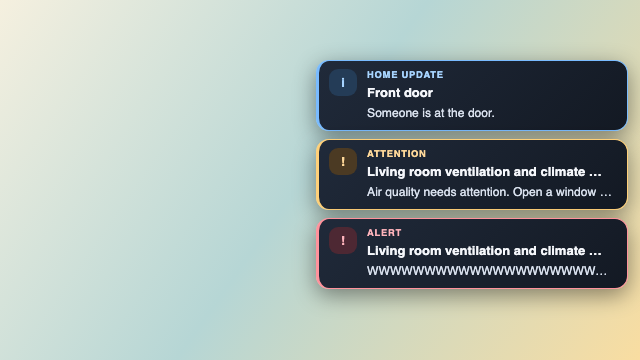
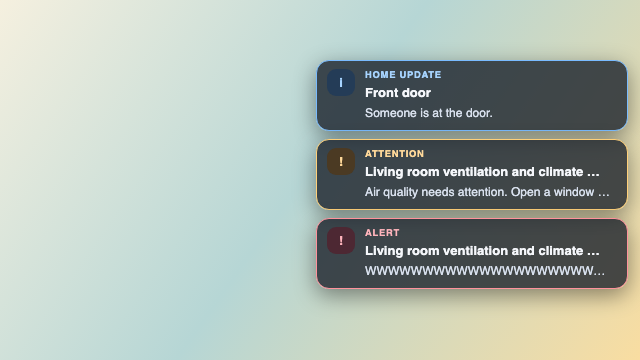
fix: align home event surfaces with footer opacity

Changed region(s): [[0.4688, 0.1528, 1.0, 0.5806], [0.4688, 0.6111, 1.0, 0.825]]

diff --git a/index.html b/index.html
@@ -49,7 +49,7 @@
             animation: notifyOut 0.3s ease-in forwards;
         }
         /* Remote home events use viewport sizing, independent of the TV skin's
-           em scale. Solid backing is deliberate: video must not reduce contrast. */
+           em scale. Only the surface is translucent; text keeps full contrast. */
         .notify.remote-notify {
             box-sizing: border-box;
             display: flex;
@@ -62,10 +62,9 @@
             font-weight: normal;
             line-height: 1.4;
             color: #f5f7fb;
-            background: #161c27;
-            background: linear-gradient(135deg, #202a3a, #131923);
+            background: rgba(22, 28, 39, 0.78);
+            background: rgba(22, 28, 39, var(--ott-notify-alpha, 0.78));
             border: 1px solid #79bbff;
-            border-left: 3px solid #79bbff;
             border-radius: 1em;
             box-shadow: 0 0.5em 1.7em rgba(0, 0, 0, 0.42);
             pointer-events: none;

diff --git a/src/index.ts b/src/index.ts
@@ -1329,6 +1329,11 @@ function stbSetOsdOpacity(val: number): void {
               ? "8,8,8"
               : classicColorRgb(settings.highlightColorB);
     $(".osd").css("background-color", "rgba(" + rgb + "," + val / 100 + ")");
+    // Keep notification surfaces slightly denser than the footer, not their text.
+    document.documentElement.style.setProperty(
+        "--ott-notify-alpha",
+        String(val / 100 + 0.08)
+    );
 }
 
 /**

diff --git a/docs/remote-notifications.md b/docs/remote-notifications.md
@@ -14,12 +14,18 @@ lines. Long titles and messages are clipped to bounded previews so three
 simultaneous notifications fit normal small windows. This is a transient preview,
 not a complete event history; keep controller messages concise.
 
-An opaque dark background keeps contrast stable over bright or dark video.
-Severity has a text label, a decorative badge and a thin closed outline in the
-same accent color, with a stronger left edge. Older WebViews use solid
-background, fixed-font, word-wrap and bounded-height fallbacks; layout does not
-require backdrop filters, flex gap, JavaScript resize handlers or external fonts.
-Reduced-motion settings disable the entrance animation.
+Only the dark surface is translucent; text and icons retain full opacity.
+The default information footer has alpha 0.70 (30% transparency). Notification
+surfaces add 0.08 opacity, giving alpha 0.78 (22% transparency), capped at 1.0.
+The value updates with the footer's opacity setting. Older WebViews without CSS
+custom properties use the same 0.78 default surface. The solid RGB base is
+22,28,39; no gradient or container opacity dilutes text contrast.
+
+Severity has a text label, decorative badge and a uniformly thin, closed
+1 CSS pixel outline in the same accent color. Older WebViews retain fixed-font,
+word-wrap and bounded-height fallbacks. Layout does not require backdrop filters,
+flex gap, JavaScript resize handlers or external fonts. Reduced-motion settings
+disable the entrance animation.
 
 Presentation does not change delivery: cards never take focus or pointer input,
 never wake a sleeping player, retain the bounded three-card queue and existing
